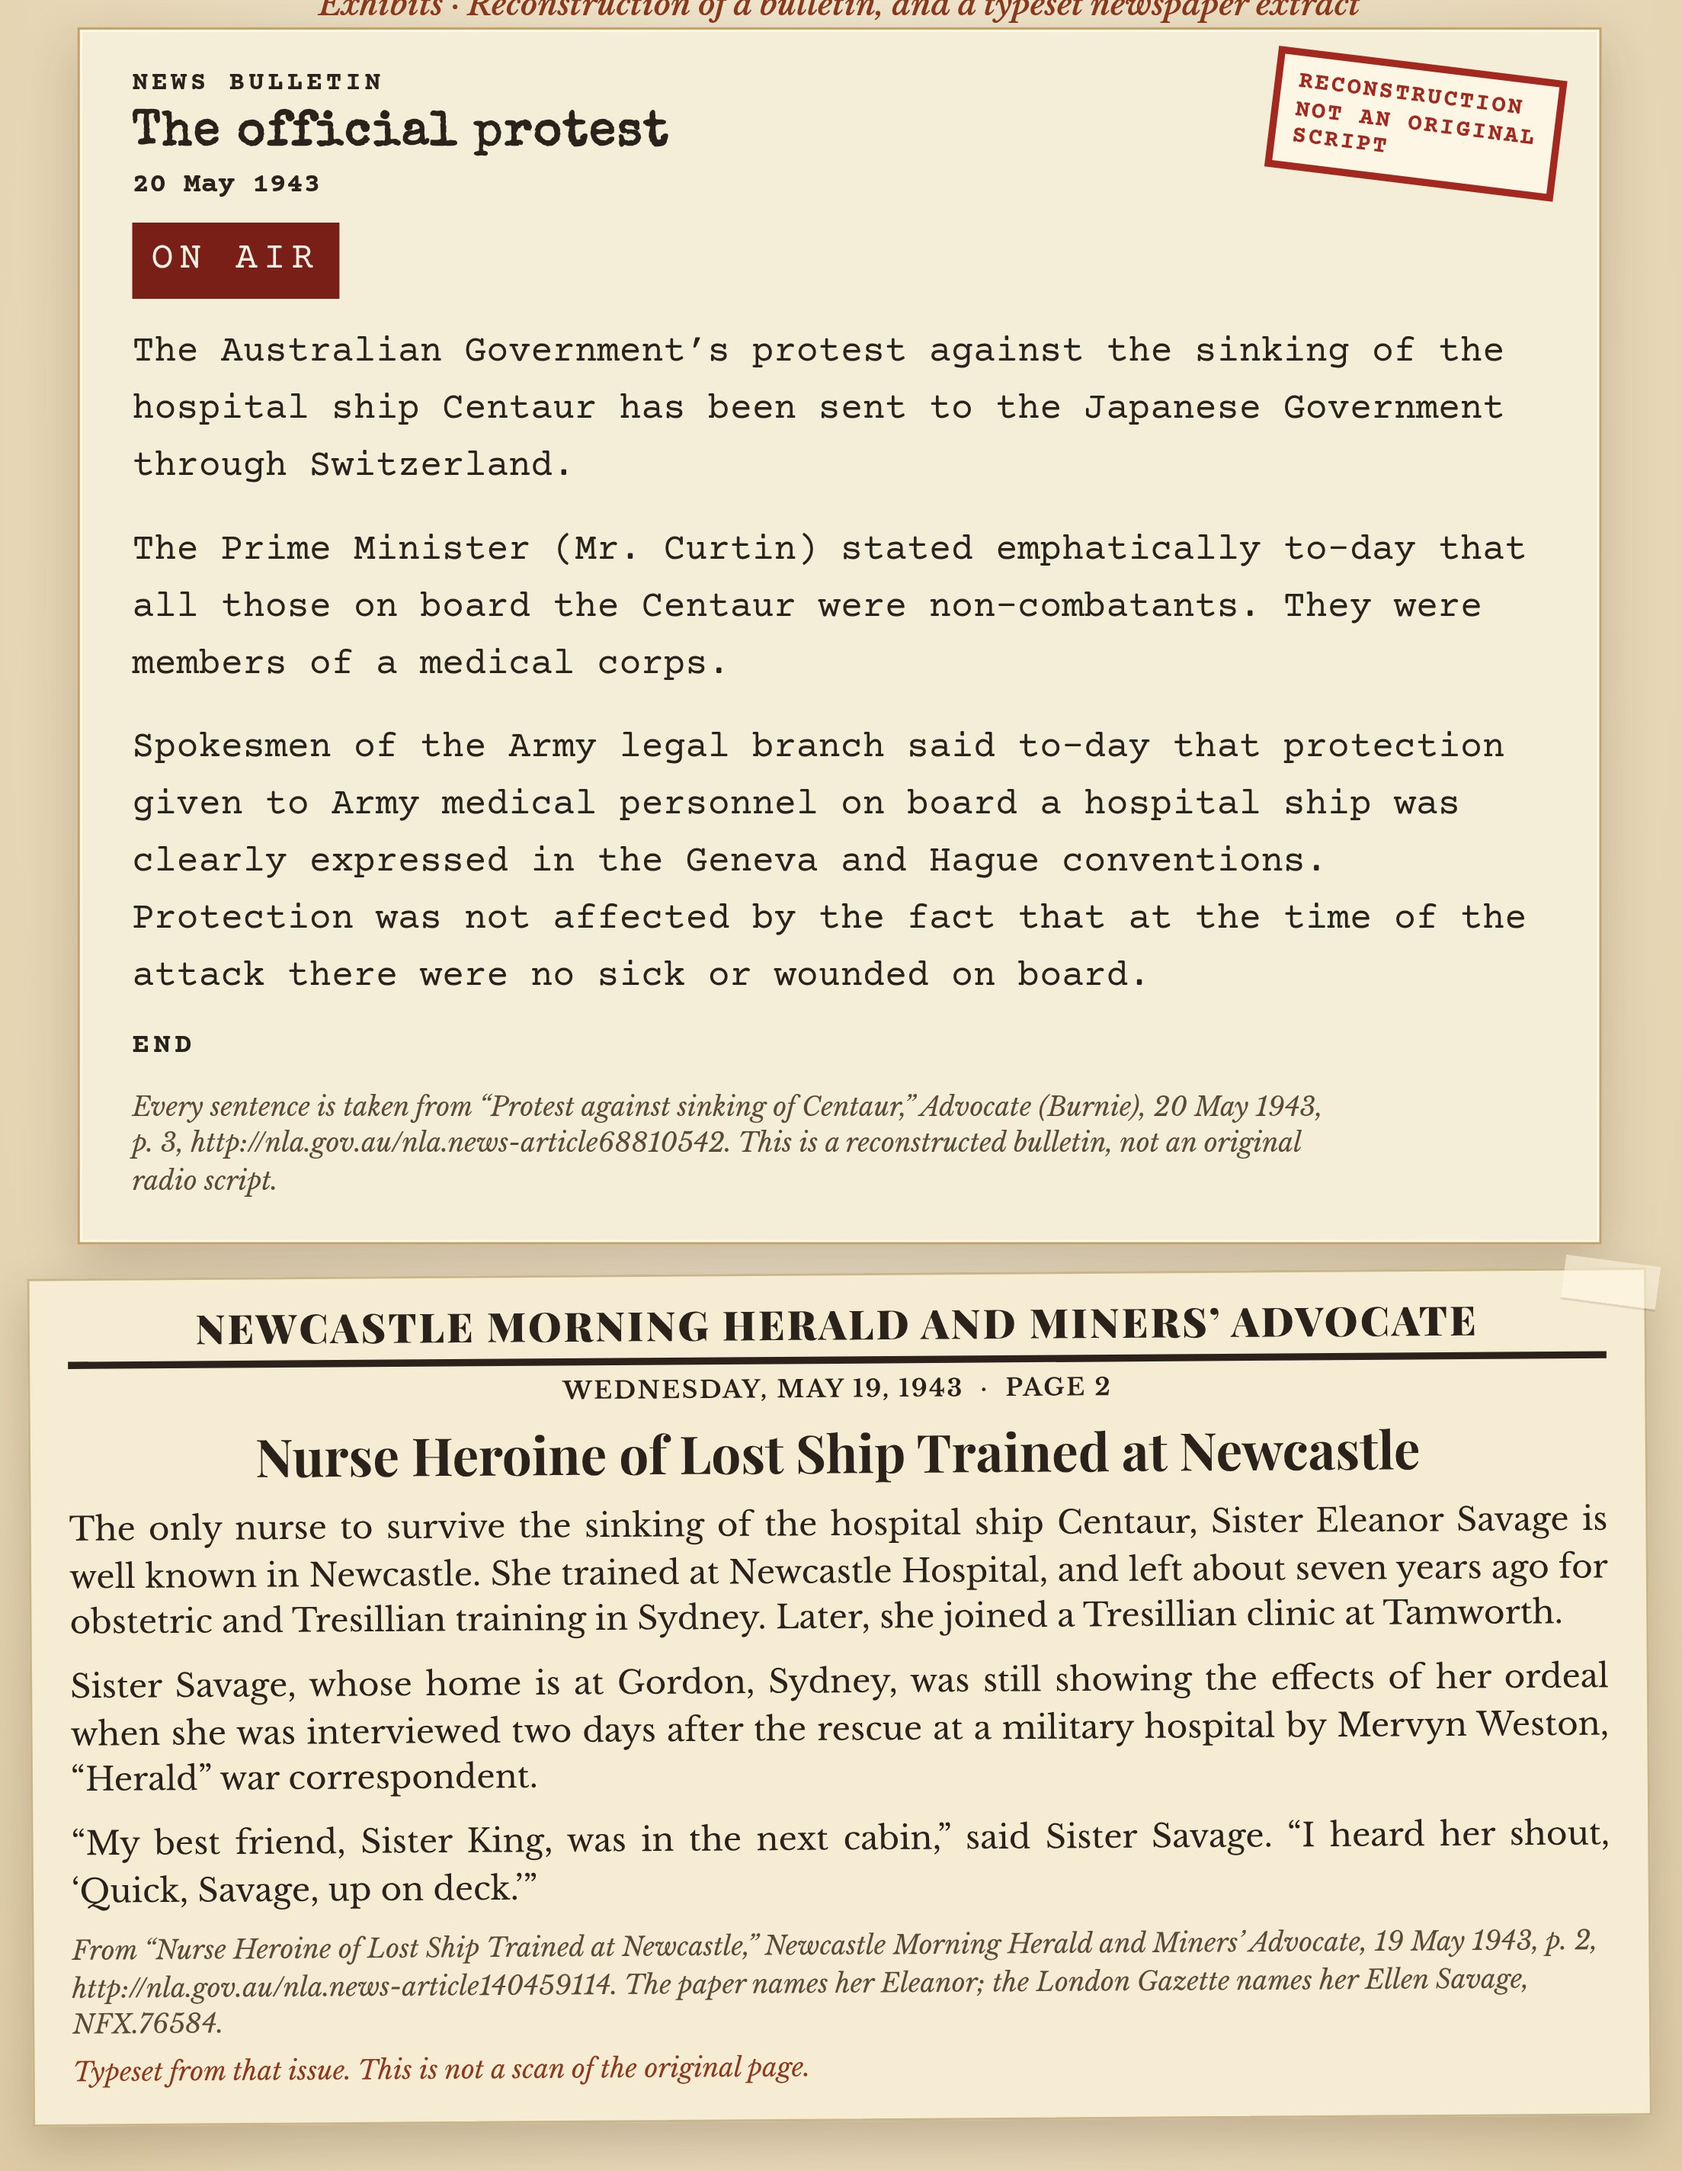
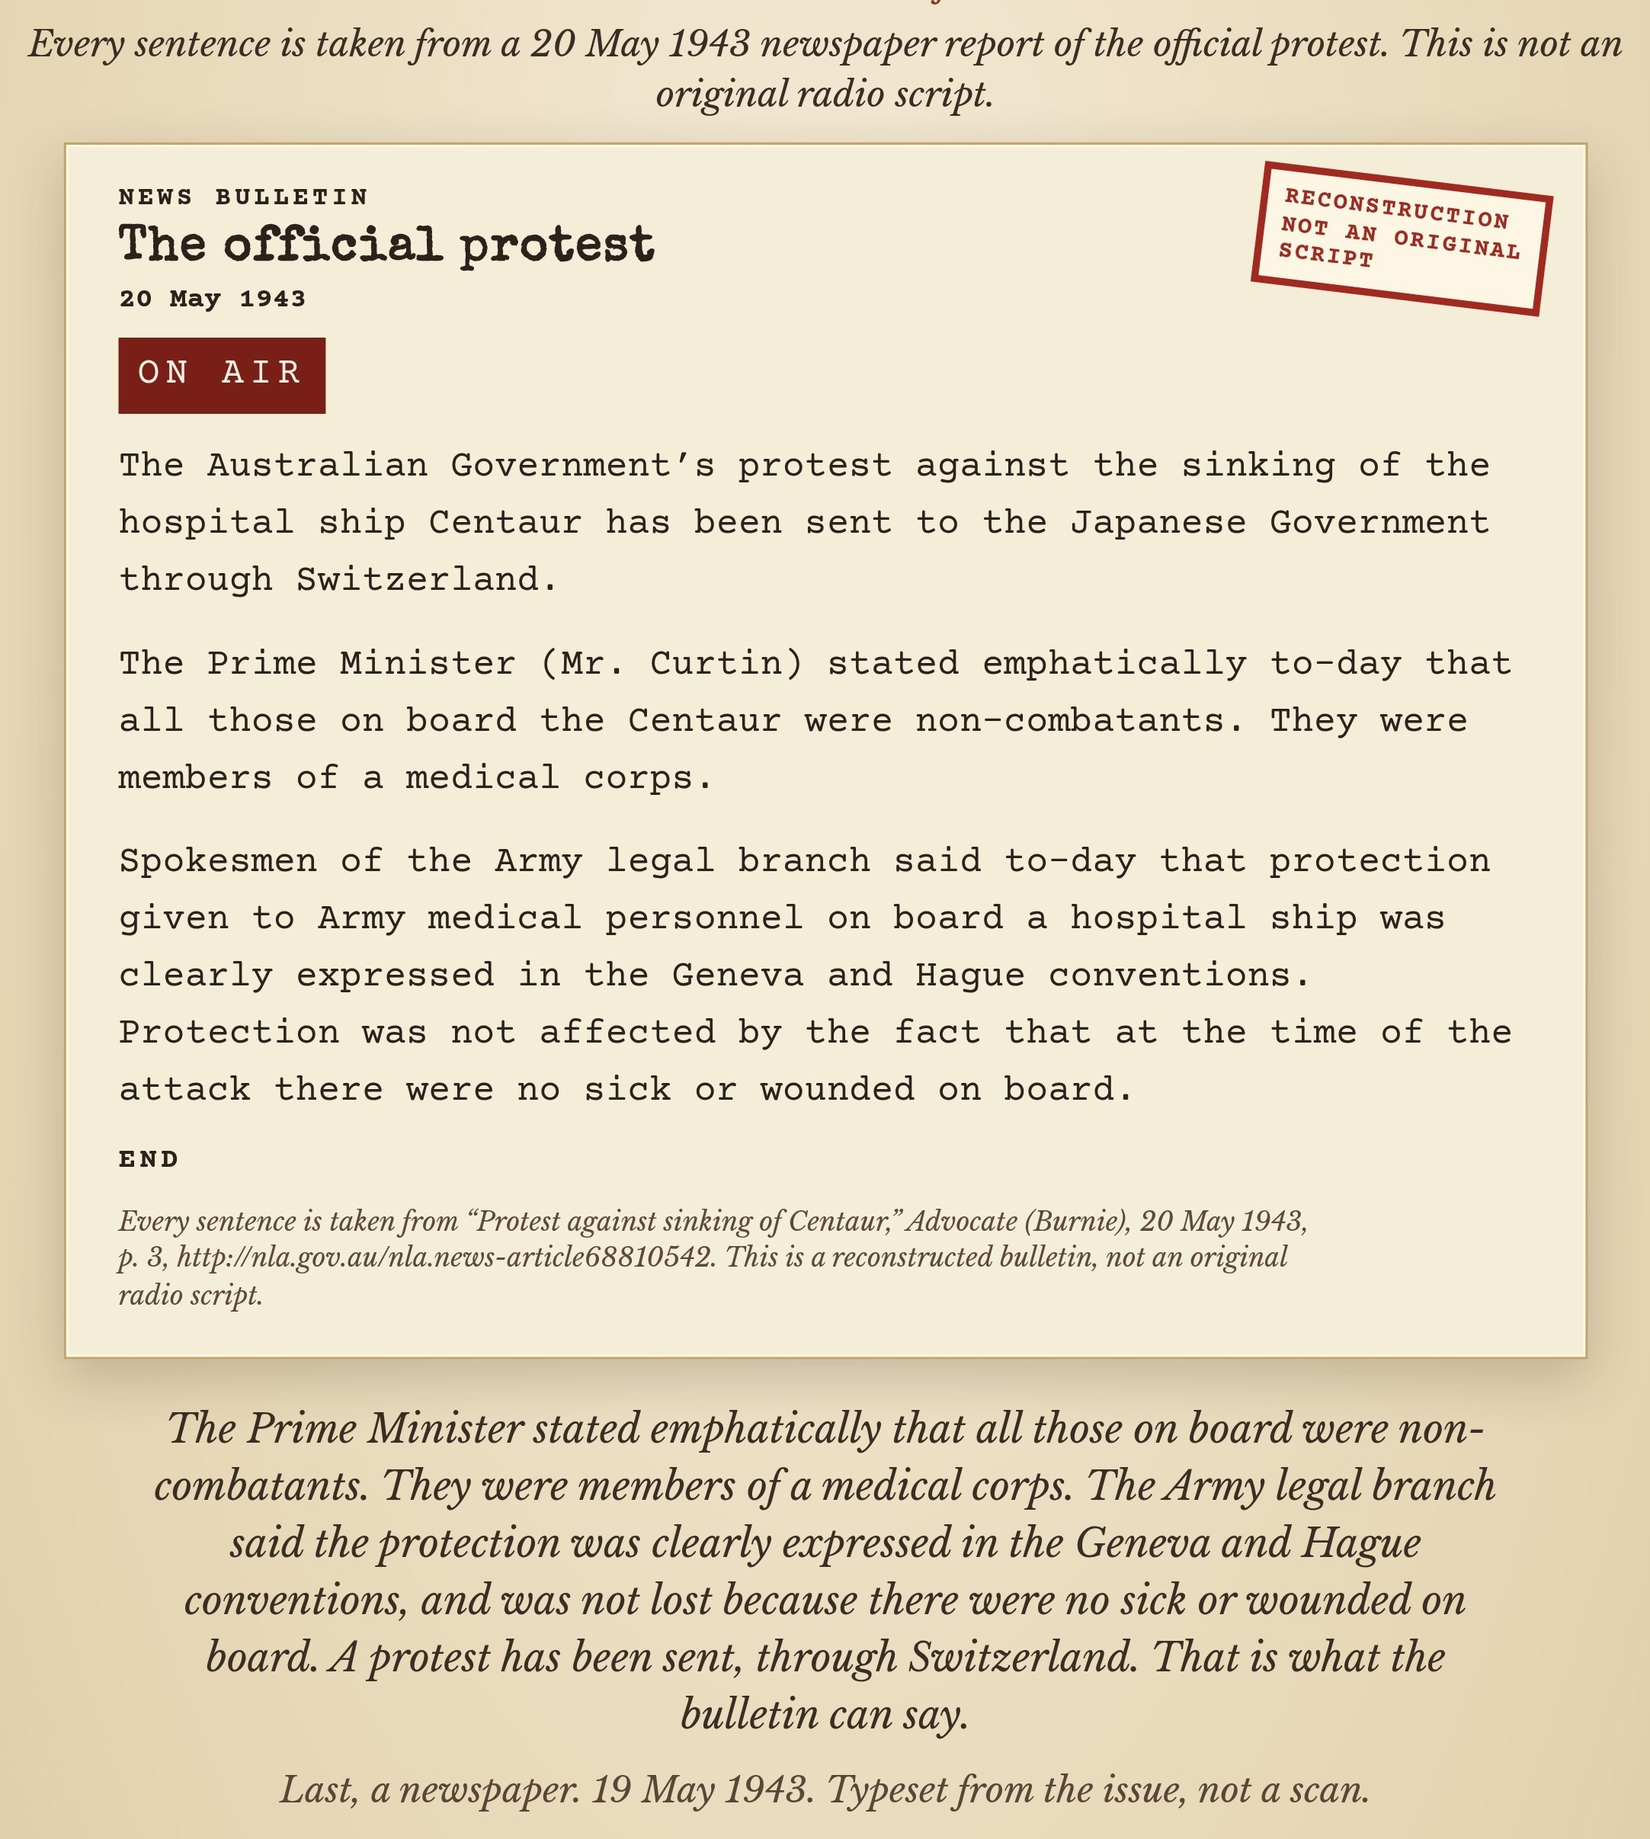
Reframe the Case 11 opener as a journalist looking through the artefacts.
An invented present-day journalist, clearly labelled as fictional in the Teacher Note, goes through the four exhibits one by one before deciding to reopen the case. The artefacts, their labels, their sources, and the radio clip are unchanged.

diff --git a/index.html b/index.html
@@ -51,12 +51,16 @@
     </div>
     <p class="lead">Read the opening page through to the last line.</p>
     <article class="notebook typed" aria-label="Opening page">
-      <p class="letter-place">A photocopy of a white ship, and a 1943 interview</p><p class="letter-date">Shortly after four in the morning, 14 May 1943 — and now</p><p>The photocopy is a hospital ship in Sydney Harbour, 1943. A white hull. A green band. Red crosses on the side, the funnel, the stern, and one lying flat on a deckhouse, so a plane might see it.</p><p>Shortly after four in the morning, off the Queensland coast, she went down. A seaman later said the ship “just went straight down.”</p><p>Sister Ellen Savage, interviewed two days after the rescue, said her friend called from the next cabin: “Quick, Savage, up on deck.” They had a plan, because her friend could not swim. They jumped together. She never saw her friend again.</p><p class="close-line">I can see the markings in the photograph. I cannot see what the person who fired could see. That is the file.</p>
+      <p class="letter-place">A desk in an archive. Late.</p>
+      <p class="letter-date">Today</p>
+      <p>The lamp makes a small circle on the desk. The rest of the room can wait. A folder sits where the last reader left it. No name on the cover. Only a ship, and a date: May 1943.</p>
+      <p>The journalist does not start with a theory. They start with what is in front of them.</p>
+      <p>The first slip is a telegram. A stamp on it says Reconstruction. It is not a real telegram, and it is not addressed to a real family. The wording is still the kind of wording that arrived at a door.</p>
     </article>
 
     <section class="exhibits" aria-label="Exhibits with the opening page">
       <h3>Exhibits</h3>
-      <p class="lead-ex">These four exhibits sit with the opening page. Two are reconstructions, clearly labelled. Two use a real photograph and a real newspaper. Tap an exhibit to enlarge it.</p>
+      <p class="lead-ex">The journalist looks at these four exhibits, one by one. Two are reconstructions, clearly labelled. Two use a real photograph and a real newspaper. Tap an exhibit to enlarge it.</p>
 
       <article class="exhibit" id="exhibit-telegram">
         <h4>A casualty telegram</h4>
@@ -79,6 +83,10 @@
         <p class="note">Wording modelled on official Army casualty telegrams of the period, including a Postmaster-General’s Department telegram in the Australian War Memorial collection (papers of Reginald Walter Saunders) and the published formula that begins “I regret to inform you” and conveys the sympathy of the Minister for the Army.</p>
       </article>
 
+      <p class="desk-beat">Missing, believed killed. The Minister extends his sincere sympathy. No mother or father is named. Only a nursing sister, and a ship.</p>
+      <p class="desk-turn">Next, a creased print.</p>
+
+
       <article class="exhibit" id="exhibit-photo">
         <h4>The hospital ship, as marked</h4>
         <p class="recon-flag">AWM 302796. Copyright expired — public domain. The caption on the back is the Memorial’s own wording.</p>
@@ -97,6 +105,10 @@
           </div>
         </button>
       </article>
+
+      <p class="desk-beat">Sydney, 1943. A white hull. Red crosses on the side, the funnel, the stern, and one lying flat on a deckhouse. The Memorial’s caption on the back is plain: torpedoed and sunk with heavy loss of life by a Japanese submarine on 14 May 1943. The photograph can prove the markings. It cannot, by itself, prove what happened at the moment she went down.</p>
+      <p class="desk-turn">A radio script is next. Reconstruction of a bulletin, not an original.</p>
+
 
       <article class="exhibit" id="exhibit-bulletin">
         <h4>A radio news bulletin</h4>
@@ -129,10 +141,14 @@
         </figure>
       </article>
 
+      <p class="desk-beat">The Prime Minister stated emphatically that all those on board were non-combatants. They were members of a medical corps. The Army legal branch said the protection was clearly expressed in the Geneva and Hague conventions, and was not lost because there were no sick or wounded on board. A protest has been sent, through Switzerland. That is what the bulletin can say.</p>
+      <p class="desk-turn">Last, a newspaper. 19 May 1943. Typeset from the issue, not a scan.</p>
+
+
       <article class="exhibit" id="exhibit-newspaper">
         <h4>A newspaper extract</h4>
         <p class="recon-flag">Typeset from the issue of 19 May 1943. This is not a scan of the original page.</p>
-        <button type="button" class="artefact-zoom" data-full="assets/artefacts/radio-news.jpg" aria-label="Enlarge the typeset extract from the Newcastle Morning Herald, 19 May 1943.">
+        <button type="button" class="artefact-zoom" data-full="assets/artefacts/newspaper.jpg" aria-label="Enlarge the typeset extract from the Newcastle Morning Herald, 19 May 1943.">
           <div class="clip">
             <p class="mast">Newcastle Morning Herald and Miners’ Advocate</p>
             <p class="date">Wednesday, May 19, 1943 &nbsp;·&nbsp; Page 2</p>
@@ -143,6 +159,13 @@
             <p class="src">From “Nurse Heroine of Lost Ship Trained at Newcastle,” Newcastle Morning Herald and Miners’ Advocate, 19 May 1943, p. 2, http://nla.gov.au/nla.news-article140459114. The paper names her Eleanor; the London Gazette names her Ellen Savage, NFX.76584.</p>
           </div>
         </button>
+      </article>
+
+      <p class="desk-beat">The only nurse to survive is interviewed two days after the rescue, still showing the effects of her ordeal. “My best friend, Sister King, was in the next cabin,” she says. “I heard her shout, ‘Quick, Savage, up on deck.’”</p>
+      <p class="desk-beat">Four pieces on the desk. A form that never names a family. A marked ship in harbour. An official protest. A woman who heard her friend call, and lived.</p>
+      <article class="notebook typed decision-box" aria-label="The decision">
+        <p class="close-line">The file is not empty. It is not settled either. The case is going to be reopened.</p>
+        <p class="case-q">What can the records prove about who sank a marked hospital ship, and whether it was legitimately protected?</p>
       </article>
     </section>
 
@@ -322,12 +345,12 @@
       <summary>Teacher notes</summary>
       <div class="sleuth-body">
         <h4>What’s true about the exhibits</h4>
-        <p>Four exhibits follow the opening scene. The casualty telegram is a reconstruction, clearly labelled, and is not a real telegram. It is addressed only to “the next of kin of a nursing sister,” not to a named family. The wording is modelled on official Army casualty telegrams of the period, including a Postmaster-General’s Department telegram in the Australian War Memorial’s papers of Reginald Walter Saunders, and the published military formula that begins “I regret to inform you” and conveys the sympathy of the Minister for the Army.</p>
+        <p>Four exhibits sit inside the opening scene, with the journalist’s reactions between them. The casualty telegram is a reconstruction, clearly labelled, and is not a real telegram. It is addressed only to “the next of kin of a nursing sister,” not to a named family. The wording is modelled on official Army casualty telegrams of the period, including a Postmaster-General’s Department telegram in the Australian War Memorial’s papers of Reginald Walter Saunders, and the published military formula that begins “I regret to inform you” and conveys the sympathy of the Minister for the Army.</p>
         <p>The photograph is AWM 302796, Sydney, 1943, copyright expired — public domain. The handwritten caption on the back is the Memorial’s own catalogue wording, not an invented personal note.</p>
         <p>The radio bulletin is a reconstruction, not an original script or an original recording. Every sentence is taken from “Protest against sinking of Centaur,” Advocate (Burnie), 20 May 1943, p. 3, http://nla.gov.au/nla.news-article68810542, including Curtin’s “stated emphatically,” “non-combatants,” and “members of a medical corps,” and the Army legal branch’s wording about the Geneva and Hague conventions. The audio in the app is a modern reading of that text, with a radio-style filter, and is labelled “Reconstruction, not original audio.”</p>
         <p>The newspaper extract is typeset from “Nurse Heroine of Lost Ship Trained at Newcastle,” Newcastle Morning Herald and Miners’ Advocate, 19 May 1943, p. 2, http://nla.gov.au/nla.news-article140459114. It is not a scan of the original page. The paper names her Eleanor; the London Gazette names her Ellen Savage, NFX.76584.</p>
         <h4>What’s true about the opener</h4>
-<p>The narrator is an invented Year 10 student, looking at a 1943 photograph and at a 1943 interview. The photograph, the date, and Savage’s quoted words are in the opening scene. The Memorial’s wording about lights, the figures 332 and 64, the official protest, and the later conflict over I-177 sit in the case file, not in that scene; they are not invented. Seaman Martin Pash’s phrase “just went straight down” is used as quoted by the Australian War Memorial, not from a full interview text inspected for this file. Sister King and the cabin boy Robert Westwood are named because Savage named them in a published 1943 interview. Teach those names with care for the dead and for families.</p>
+<p>The narrator is an invented present-day journalist, not a real person, and is not based on a named reporter. The journalist is shown looking through four artefacts before deciding to reopen the case. The journalist’s thoughts refer only to what those artefacts show. They do not invent historical facts, last words, or quotations. The quoted words that appear after the newspaper extract — “My best friend, Sister King, was in the next cabin” and “Quick, Savage, up on deck” — are from the Newcastle Morning Herald and Miners’ Advocate, 19 May 1943, p. 2. Curtin’s “stated emphatically,” “non-combatants,” and “members of a medical corps,” and the Army legal branch wording about the Geneva and Hague conventions, are from the reconstructed bulletin, which takes every sentence from the Advocate (Burnie), 20 May 1943, p. 3. The photograph and its verso caption are AWM 302796. The telegram is a labelled reconstruction, not a real telegram, and is not addressed to a real family. The Memorial’s wording about lights, the figures 332 and 64, Seaman Martin Pash’s phrase “just went straight down,” and the later conflict over I-177 sit in the case file, not in the opening scene; they are not invented. Sister King is named because Savage named her in the published 1943 interview. Teach that name with care for the dead and for families.</p>
 <h4>Sensitivities: war dead, families, and injuries</h4>
 <p>Two hundred and sixty-eight people died. Teach the sinking with care. Do not use photographs of human remains, or of bodies in the water, if they exist. Do not invent last words, panic, or suffering beyond what a named source actually says. Accounts of Savage’s injuries are not identical; do not tidy them into one medical list. A 15-year-old cabin boy with burns is in the 1943 interview. Handle that line carefully in a Year 10 classroom. The case is not a First Nations history as a whole, but a contemporary crew-survivor list printed on 20 May 1943 named E. M. Salt as a “Torres strait pilot.” This file does not examine that person’s story. If you take it further, do so with care, and with consultation if a Torres Strait Islander’s experience is taught in any depth.</p>
 <h4>I-177 and Nakagawa: do not settle a closed prosecution</h4>

diff --git a/assets/style.css b/assets/style.css
@@ -316,3 +316,43 @@ body:not(.book-page) .print.back{width:min(100%,320px)}
   body:not(.book-page) .print.back{transform:none}
   .lightbox-stage img{max-width:94vw;max-height:90vh;object-fit:contain}
 }
+
+/* Journalist beats woven between exhibits */
+.desk-beat{
+  font-family:"TypedNote",Georgia,serif;
+  font-size:1.22rem;
+  line-height:1.6;
+  font-style:italic;
+  color:#3a2d24;
+  margin:0.2rem 0.4rem 0.9rem;
+  text-align:center;
+}
+.desk-turn{
+  font-family:"TypedNote",Georgia,serif;
+  font-size:1.08rem;
+  line-height:1.5;
+  font-style:italic;
+  color:#5a4638;
+  margin:-0.4rem 0.4rem 1.4rem;
+  text-align:center;
+}
+.decision-box{margin:0.6rem 0 1.2rem}
+.decision-box .case-q{
+  font-family:"TypedNote",Georgia,serif;
+  font-size:1.22rem;
+  line-height:1.45;
+  font-weight:700;
+  font-style:normal;
+  text-align:center;
+  margin:0.2em 0 0.4em;
+  color:#2b221c;
+}
+body.easy-read .desk-beat,
+body.easy-read .desk-turn,
+body.easy-read .decision-box .case-q,
+body.easy-read .decision-box .close-line{font-family:"EasyRead",Georgia,sans-serif}
+@media (max-width:520px){
+  .desk-beat{font-size:1.12rem;text-align:left;margin-left:0;margin-right:0}
+  .desk-turn{font-size:1.02rem;text-align:left;margin-left:0;margin-right:0}
+  .decision-box .case-q{font-size:1.12rem}
+}

diff --git a/assets/artefacts.css b/assets/artefacts.css
@@ -185,3 +185,31 @@ body.book-page{
 @media print{
   .telegram-form,.print,.script,.clip{-webkit-print-color-adjust:exact;print-color-adjust:exact}
 }
+
+/* Present-day journalist lines — not part of the 1943 artefacts */
+.journalist{
+  font:italic 400 16.5px/1.45 "Libre Baskerville",Georgia,serif;
+  color:#3a2d24;
+  text-align:center;
+  margin:18px auto 0;
+  max-width:620px;
+  padding:0 28px;
+}
+.journalist + .journalist{margin-top:10px}
+.journalist .turn{display:block;margin-top:8px;font-style:italic;color:#5a4638;font-size:15px}
+.decision{
+  font:italic 400 17.5px/1.4 "Libre Baskerville",Georgia,serif;
+  color:#2b221c;
+  text-align:center;
+  margin:14px auto 0;
+  max-width:620px;
+  padding:0 28px;
+}
+.case-q{
+  font:600 16.5px/1.35 "Libre Baskerville",Georgia,serif;
+  color:#2b221c;
+  text-align:center;
+  margin:12px auto 0;
+  max-width:640px;
+  padding:0 24px;
+}
